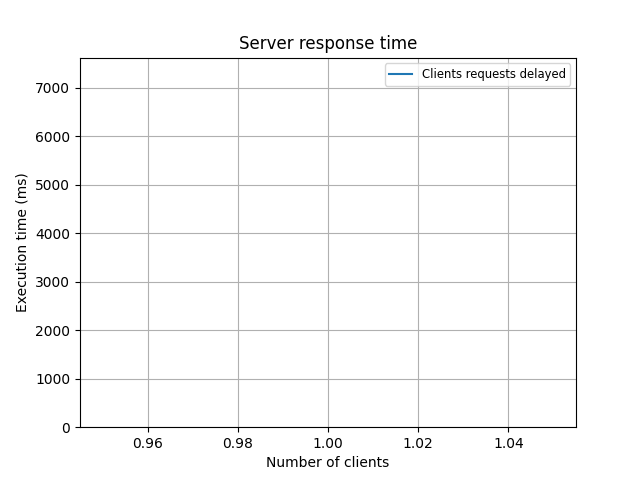
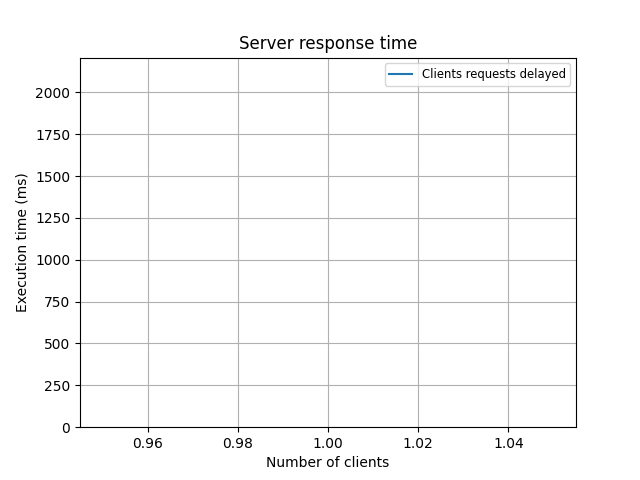
last changes

diff --git a/ServerMainImproved.java b/ServerMainImproved.java
@@ -3,6 +3,7 @@ import javax.crypto.IllegalBlockSizeException;
 import javax.crypto.NoSuchPaddingException;
 import javax.crypto.SecretKey;
 import java.io.*;
+import java.net.Inet4Address;
 import java.net.InetAddress;
 import java.net.ServerSocket;
 import java.net.Socket;
@@ -43,6 +44,8 @@ public class ServerMainImproved{
             InvalidKeySpecException, NoSuchPaddingException,
             IllegalBlockSizeException, BadPaddingException, InvalidKeyException, InterruptedException {
 
+        String ip = Inet4Address.getLocalHost().getHostAddress();
+        System.out.println(ip);
         // Template decrypted file
         File decryptedFile = new File("test_file-decrypted-server.pdf");
         // Template file from client

diff --git a/ServerMain.java b/ServerMain.java
@@ -3,6 +3,7 @@ import javax.crypto.IllegalBlockSizeException;
 import javax.crypto.NoSuchPaddingException;
 import javax.crypto.SecretKey;
 import java.io.*;
+import java.net.Inet4Address;
 import java.net.InetAddress;
 import java.net.ServerSocket;
 import java.net.Socket;
@@ -17,6 +18,8 @@ public class ServerMain{
     public static void main(String[] args) throws IOException {
 
         // Server initialization
+        String ip = Inet4Address.getLocalHost().getHostAddress();
+        System.out.println(ip);
         ServerSocket ss = new ServerSocket(3333,10);
         System.out.println("Waiting connection");
         int i = 0;

diff --git a/Client.java b/Client.java
@@ -48,7 +48,7 @@ class Client implements Runnable{
             CryptoUtils.encryptFile(keyGenerated, inputFile, encryptedFile);
 
             // Creating socket to connect to server (in this example it runs on the localhost on port 3333)
-            Socket socket = new Socket("localhost", 3333);
+            Socket socket = new Socket("192.168.56.1", 3333);
 
             // For any I/O operations, a stream is needed where the data are read from or written to. Depending on
             // where the data must be sent to or received from, different kind of stream are used.

diff --git a/Main.java b/Main.java
@@ -83,7 +83,7 @@ public class Main {
         System.out.println("Enter number of client request... (or -1 to exit)");
         while (true){
             long responseTime = -1;
-            int pwdlen = 3;
+            int pwdlen = 2;
 
             Scanner sc = new Scanner(System.in);
 
